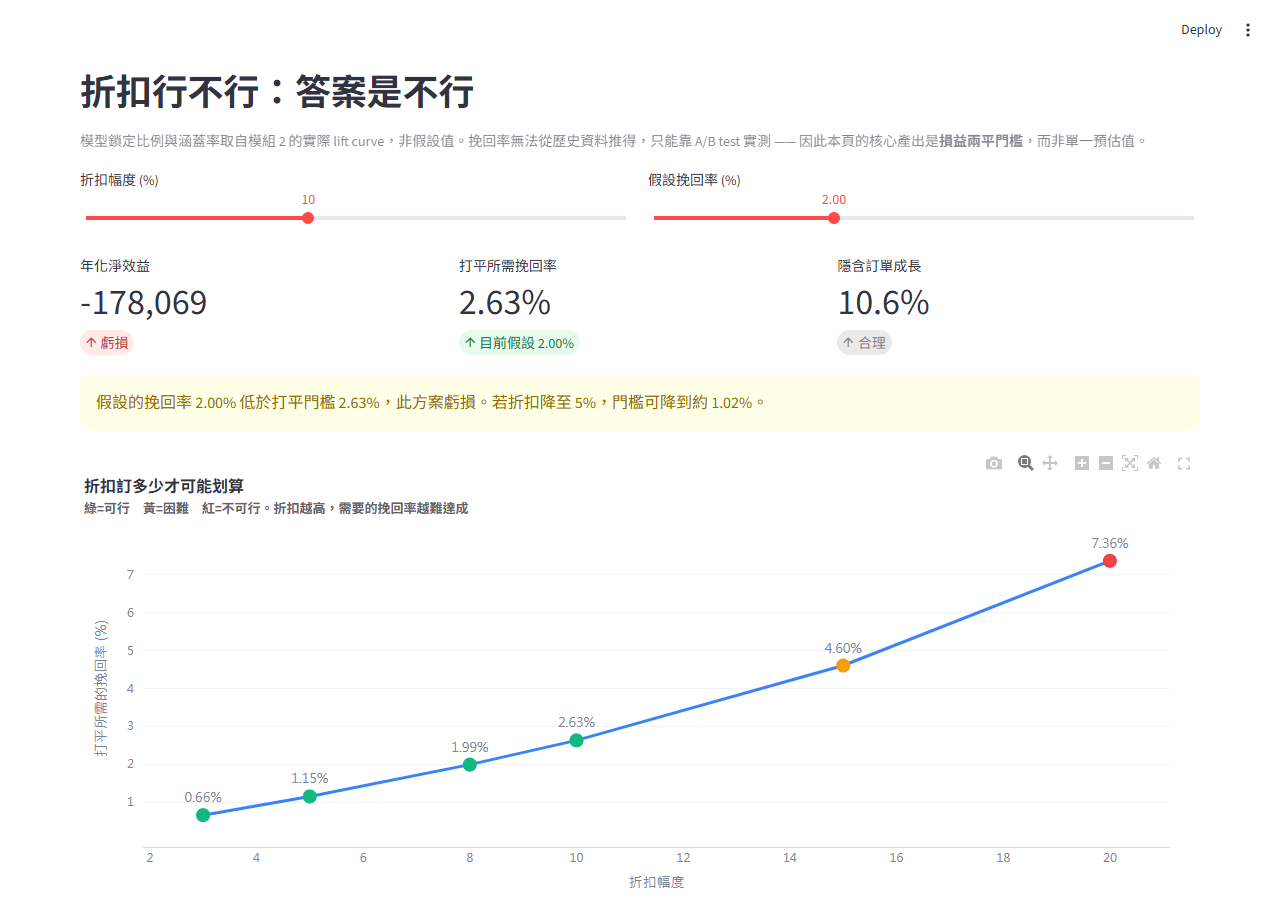
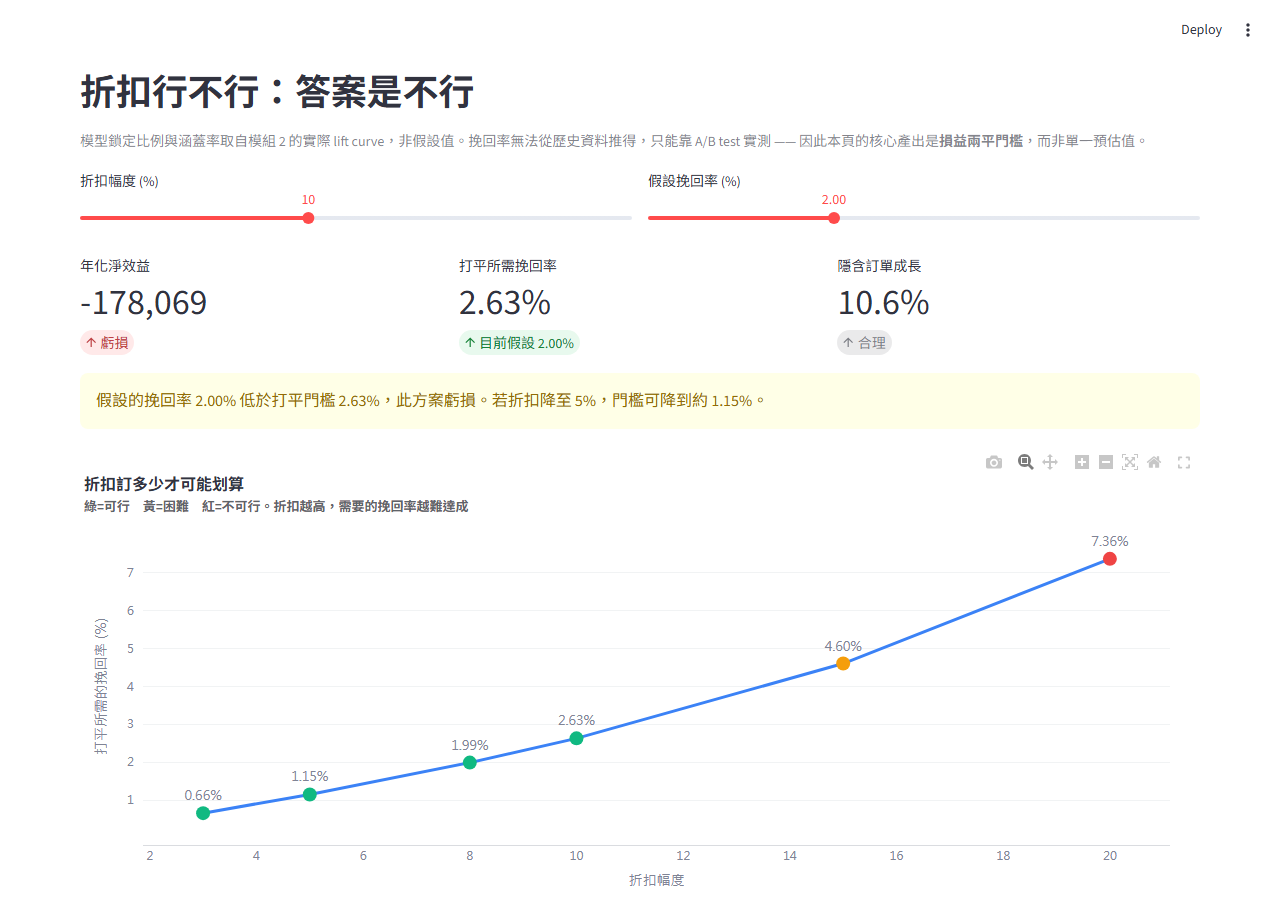
docs: 更新 README 儀表板截圖，修正長條圖頂端標籤被裁切
- dashboard-model.png：特徵重要度副標題改為 51%（原為舊模型的 70%）
- dashboard-discount.png：5% 折扣打平門檻改為 1.15%（原為 1.02%）
- charts.py：十分位長條圖加上 cliponaxis=False，最高組的 37.7% 標籤
  不再被繪圖區裁掉

diff --git a/src/charts.py b/src/charts.py
@@ -160,6 +160,8 @@ def decile_lift() -> go.Figure:
         x=df["十分位"], y=df["該組購買率%"], name="該組購買率",
         marker_color=[BLUE if i < 3 else GREY for i in range(len(df))],
         text=[f"{v:.1f}%" for v in df["該組購買率%"]], textposition="outside",
+        # Plotly 自動範圍不一定替最高那根的外側標籤留足空間，允許標籤畫出繪圖區才不會被裁掉
+        cliponaxis=False,
     ))
     fig.add_hline(
         y=base, line={"color": RED, "dash": "dash"},
